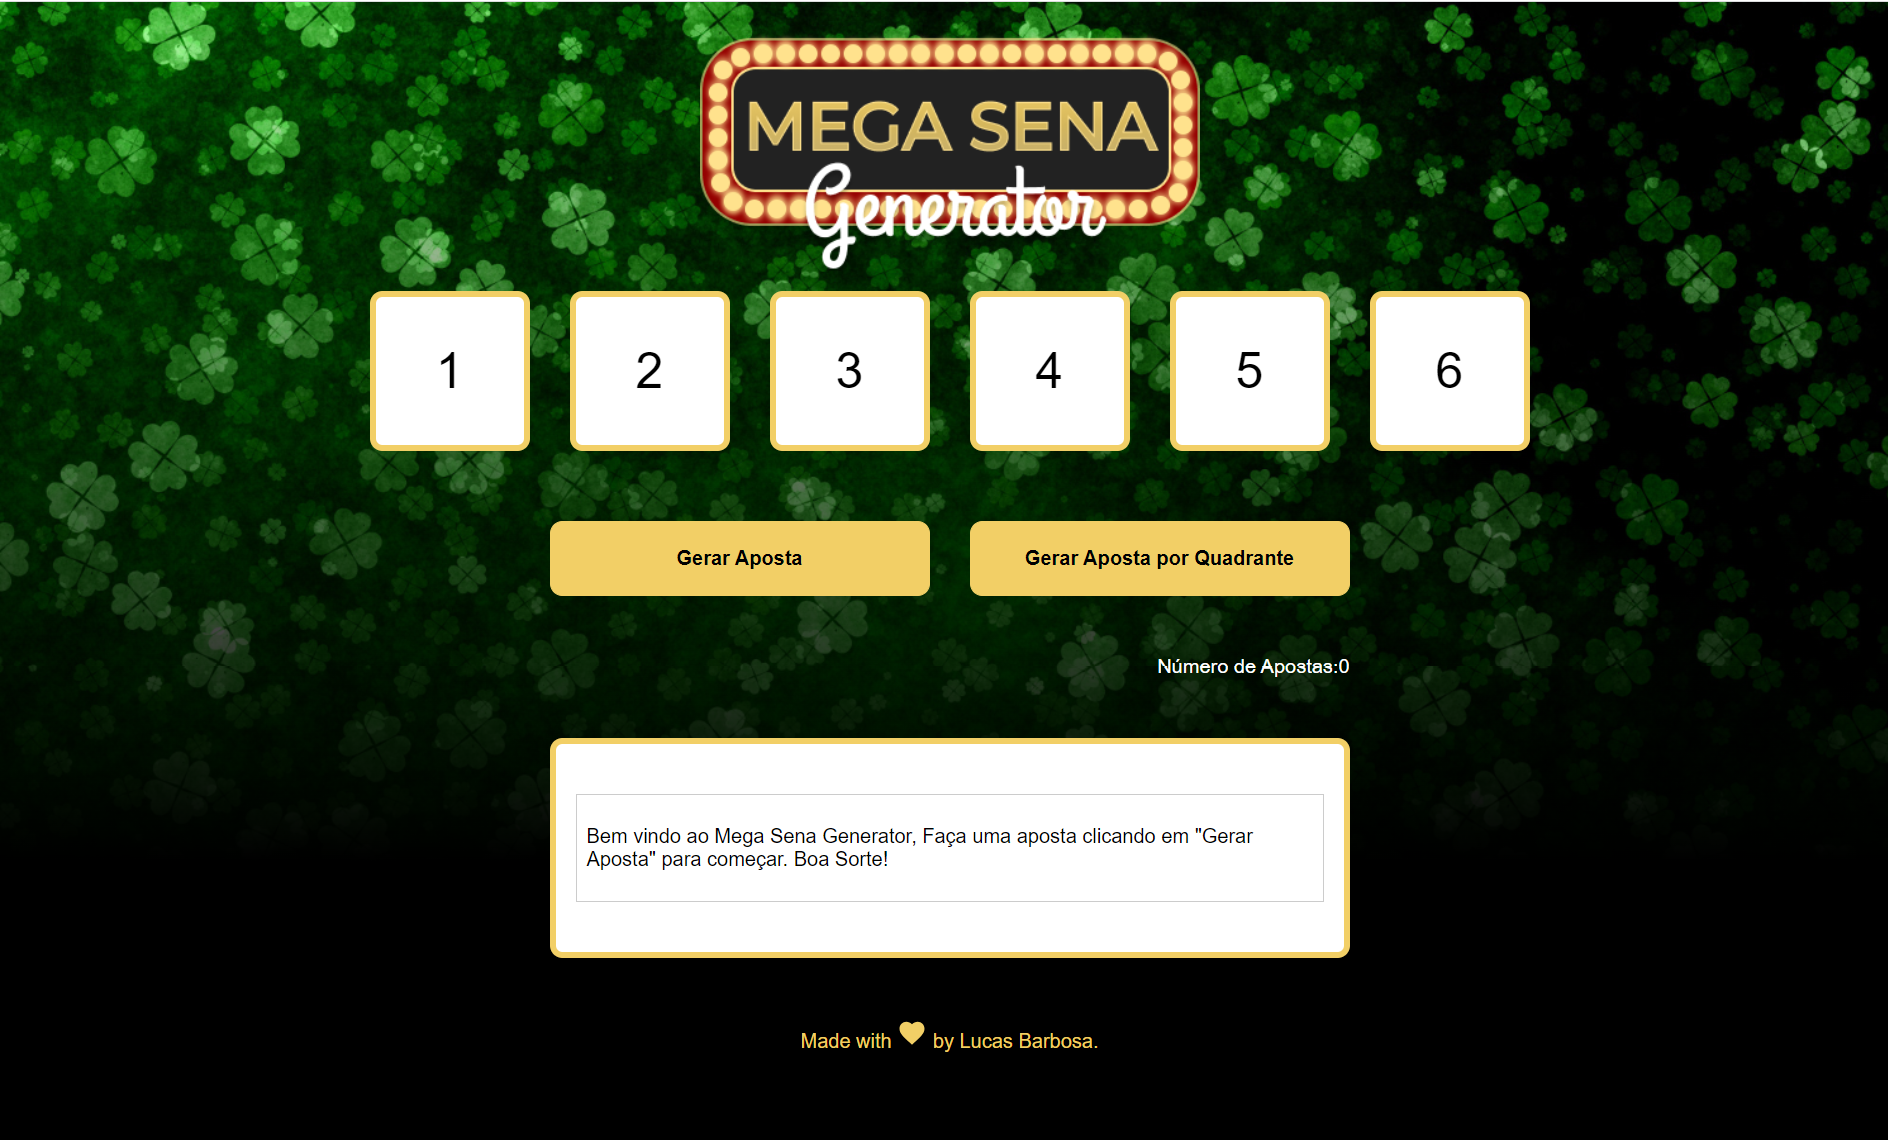
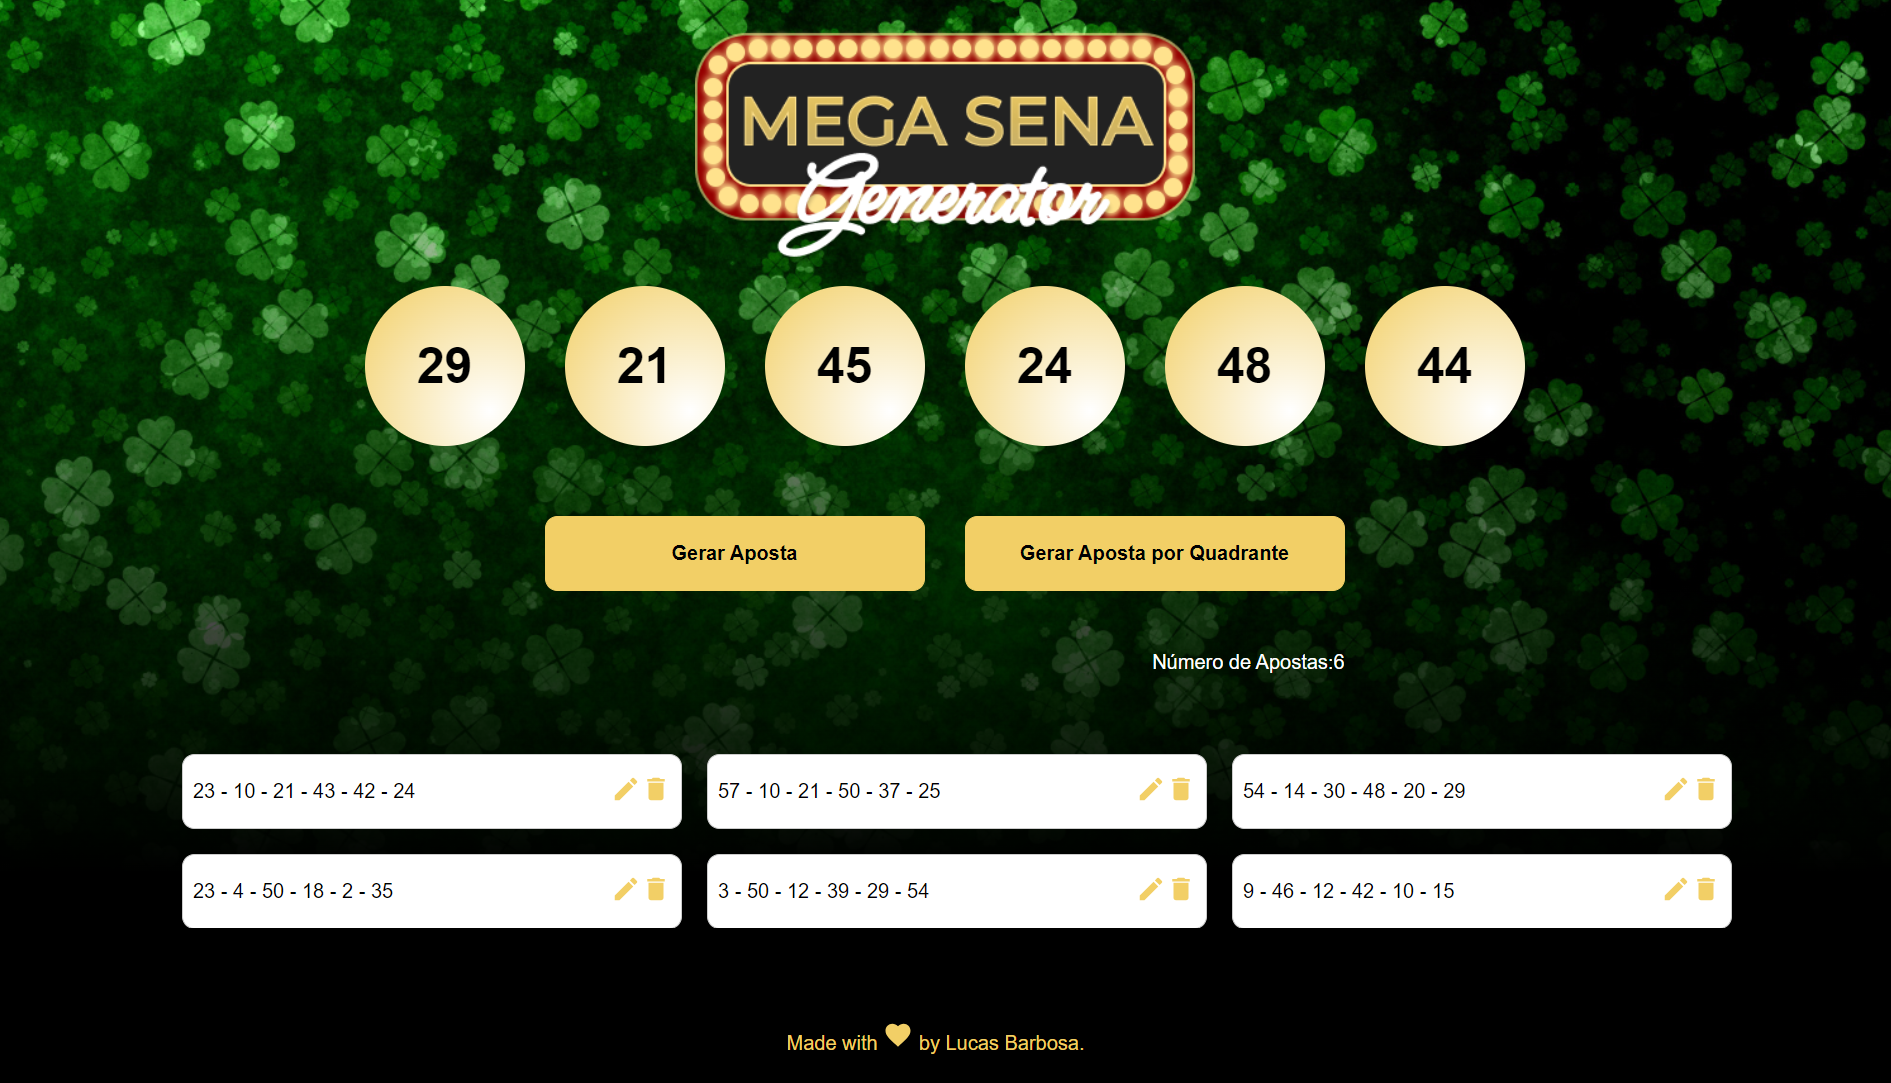
minor adjustments

diff --git a/src/components/GetList.js b/src/components/GetList.js
@@ -1,24 +1,24 @@
 import React from 'react';
-import Card from './UI/Card';
+import Card2 from './UI/Card2';
 import classes from './GetList.module.css';
 import DeleteIcon from '@mui/icons-material/Delete';
 import EditIcon from '@mui/icons-material/Edit';
 
 const GetList = (props) => {
   return (
-    <Card className={classes.numbers}>
+    <div className={classes.numbers}>
       <ul>
         {props.numbers.map((number) => (
          <li key={number.id} className={classes.deletebtnlink}>
-            {number.num[0]}, {number.num[1]}, {number.num[2]}, {number.num[3]}, {number.num[4]}, {number.num[5]}
+            {number.num[0]} - {number.num[1]} - {number.num[2]} - {number.num[3]} - {number.num[4]} - {number.num[5]}
                 <div>
-                <EditIcon className={classes.editbtn}></EditIcon>
+                <EditIcon className={classes.editbtn} onClick={() => props.onEdit(number.id)}></EditIcon>
                 <DeleteIcon className={classes.deletebtn} onClick={() => props.onRemove(number.id)}></DeleteIcon>
                 </div>
           </li>
         ))}
       </ul>
-    </Card>
+    </div>
   );
 };
 

diff --git a/src/App.js b/src/App.js
@@ -14,25 +14,30 @@ function App() {
     setMegalist((prevMegaList) => {
       return [
         ...prevMegaList,
-        {num: uNumber, id: Math.random().toString()},
+        {num: uNumber, id: Math.random().toString(), isEditing: false},
       ];
     });
+    console.log(megaList);
     setCount(megaList.length+1);
    };
-  
+
+
   const handleRemove = (id) => {
     const newMega = megaList.filter((number) => number.id !== id);
     setMegalist(newMega);
     setCount(megaList.length-1);
  };
+ 
 
   return (
     <div>
     <Header></Header>
     <AddNumber onAddNumber={addNumberHandler}></AddNumber>
     <Counter count={count}></Counter>
-    {megaList.length > 0 ? <GetList numbers={megaList} onRemove={handleRemove}/> : <ListEmpty/>}
-
+      { megaList.length > 0 ? (
+          <GetList numbers={megaList} onRemove={handleRemove}/>)
+          : ( <ListEmpty/>)
+      }
     <Footer></Footer>
     </div>
   );

diff --git a/src/components/GetList.module.css b/src/components/GetList.module.css
@@ -1,25 +1,37 @@
 .numbers {
+    display: flex;
     margin: 2rem auto;
     width: 90%;
-    max-width: 40rem;
   }
   
   .numbers ul {
+    display: flex;
+    flex-wrap: wrap;
     list-style: none;
-    padding: 1rem;
+   
   }
   
   .numbers li {
+    display: flex;
+    align-items: center;
+    color: black;
+    background: #ffffff;
     border: 1px solid #ccc;
-    margin: 0.5rem 0;
+    height: 60px;
+    width: 400px;
+    margin-right: 20px;
+    margin-bottom: 20px;
     padding: 0.5rem;
+    border-radius: 10px;
   }
 
   .deletebtn{
+    color: #F2CF66;
     cursor: pointer;
   }
 
   .editbtn{
+    color: #F2CF66;
     cursor: pointer;
   }
 

diff --git a/src/components/ListEmpty.js b/src/components/ListEmpty.js
@@ -1,17 +1,17 @@
 import React from 'react';
-import Card from './UI/Card';
 import classes from './ListEmpty.module.css';
+import Card2 from './UI/Card2';
 
 
 const ListEmpty = () => {
   return (
-    <Card className={classes.numbers}>
+    <Card2 className={classes.numbers}>
       <ul>
         <li>  
             <p>Bem vindo ao Mega Sena Generator, Faça uma aposta clicando em "Gerar Aposta" para começar. Boa Sorte!</p>
         </li>
       </ul>
-    </Card>
+    </Card2>
   );
 };
 

diff --git a/src/components/AddNumber.js b/src/components/AddNumber.js
@@ -24,9 +24,6 @@ const AddNumber = (props) => {
     props.onAddNumber(randNum);
   }
 
-
-
-
   return (
     <div>
     <div className={classes.cardsitems}>
@@ -76,7 +73,7 @@ const AddNumber = (props) => {
      )}
    </CountUp>
    <CountUp start={0} end={num[5]} delay={0}>
-      {({ countUpRef}) => (
+      {({ countUpRef }) => (
       <div>
         <Card className={classes.numberMega}>
           <span ref={countUpRef} />

diff --git a/src/components/UI/Card.module.css b/src/components/UI/Card.module.css
@@ -1,6 +1,8 @@
 .card {
     background: white;
-    border-radius: 10px;
-    border: 5px solid #F2CF66;
+   
     color:black;
+    background: black;
+    border-radius: 100%;
+    background: radial-gradient(circle at 100px 100px, #ffffff,  #F2CF66);
   }

diff --git a/src/components/UI/Card2.js b/src/components/UI/Card2.js
@@ -1,0 +1,9 @@
+import React from 'react';
+
+import classes from './Card2.module.css';
+
+const Card2 = (props) => {
+  return <div className={`${classes.card2} ${props.className}`}>{props.children}</div>;
+};
+
+export default Card2;

diff --git a/src/components/UI/Card2.module.css b/src/components/UI/Card2.module.css
@@ -1,0 +1,6 @@
+.card2 {
+    background: white;
+    border-radius: 10px;
+    border: 10px solid #F2CF66;
+    color:black;
+  }

diff --git a/src/components/AddNumber.module.css b/src/components/AddNumber.module.css
@@ -7,6 +7,7 @@
     height: 8rem;
     text-align: center;
     font-size: 40px;
+    font-weight: 600;
   }
 
   .cardsitems {
